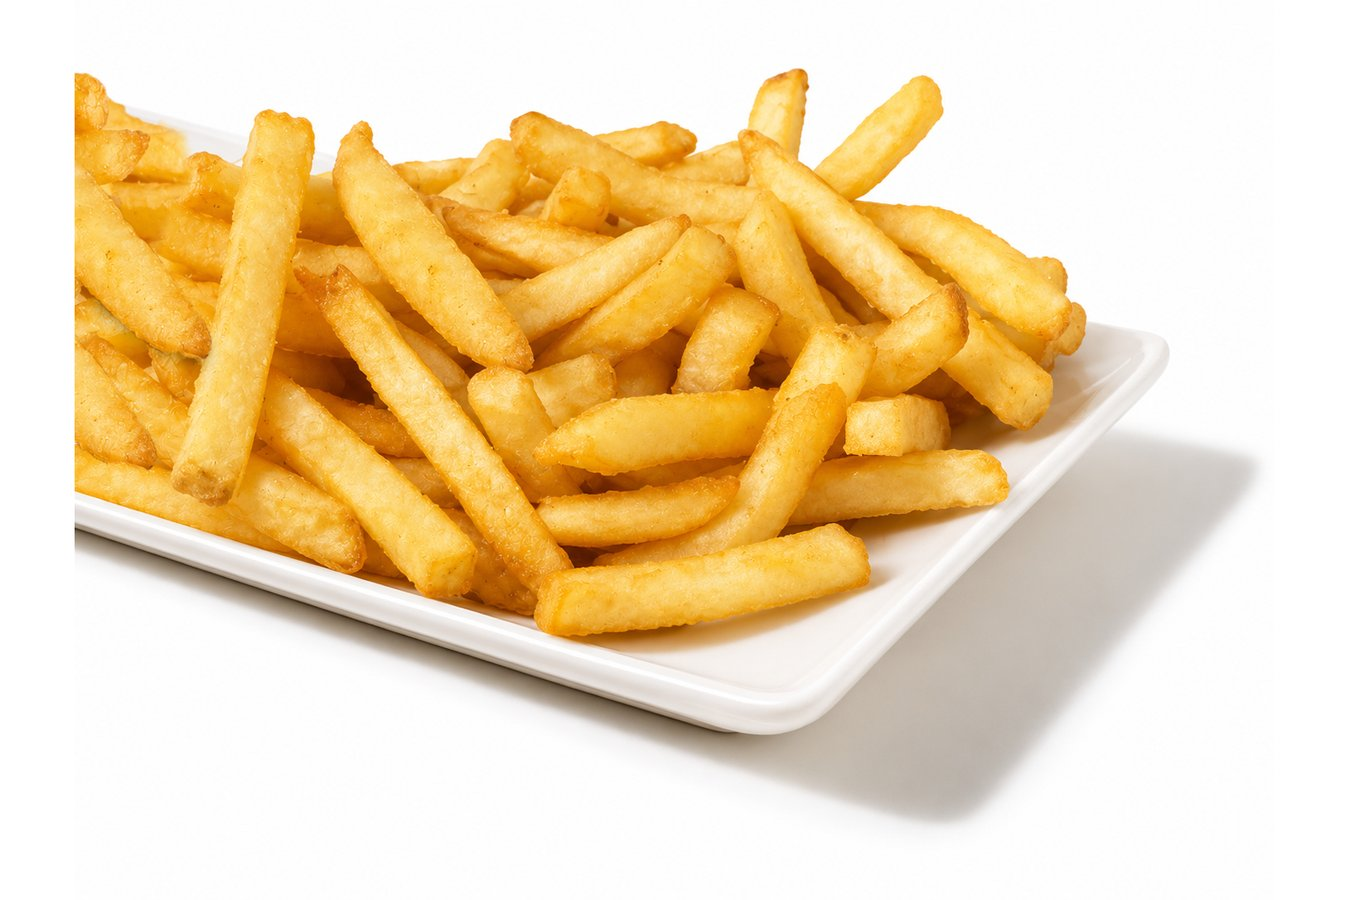
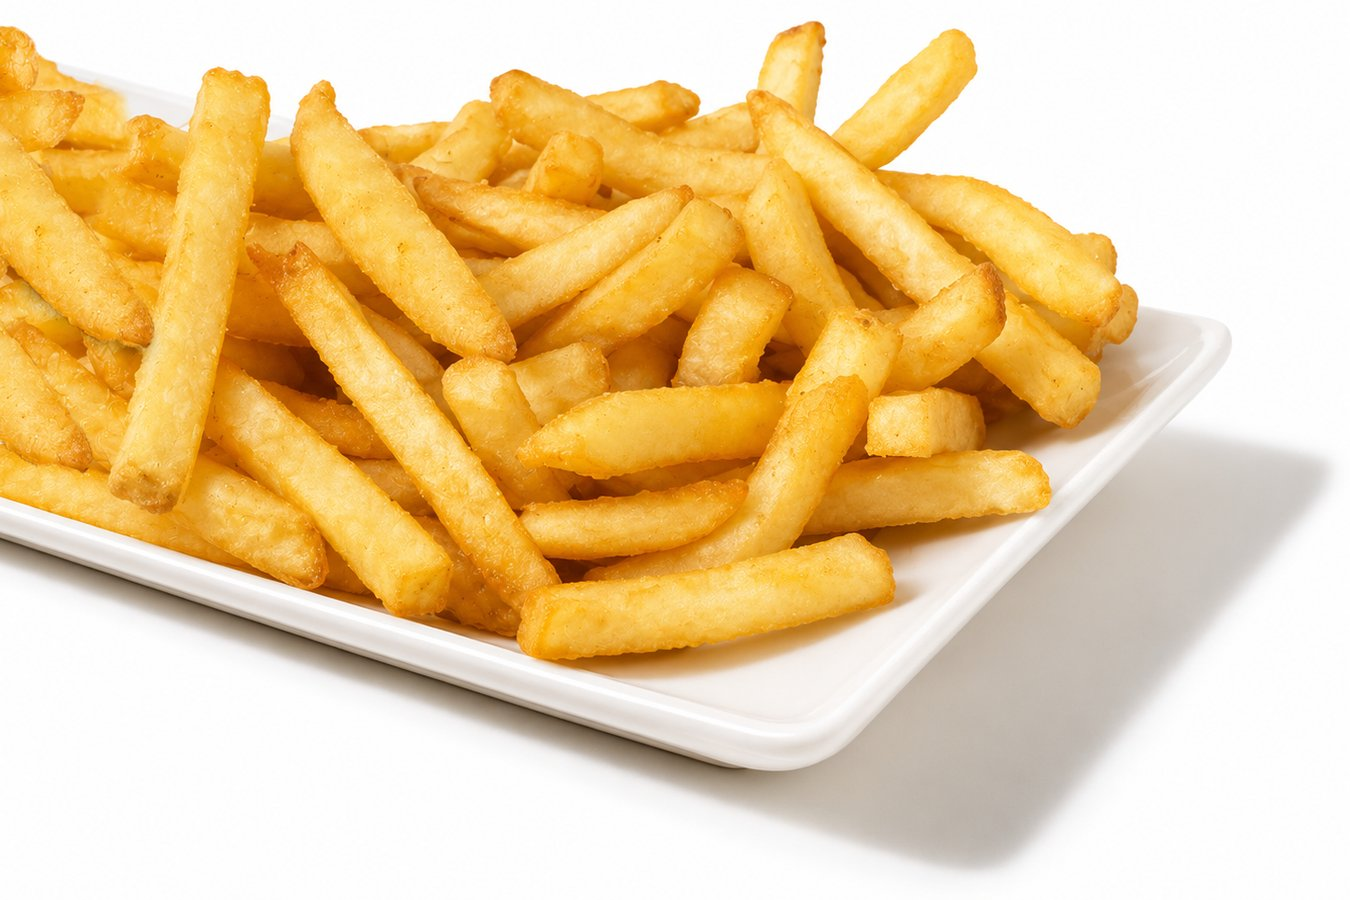
Sides cover: fries reach the left edge like the Wings card
The 4:3 fries photo is now trimmed top and bottom to 3:2 instead of
padded with white at the sides (which left a gap on the left).

Claude-Session: https://claude.ai/code/session_01GwuNKQ4EhJTqGbbawQ6M8A

diff --git a/scripts/side-images.py b/scripts/side-images.py
@@ -44,8 +44,11 @@ for n in ["poutine", "shawarma-poutine"]:
 fries = Image.open(f"{SRC}/fries.png").convert("RGB")
 fries.resize((900, 675), Image.LANCZOS).save(f"{OUT}/fries.jpg", "JPEG", quality=85, optimize=True)
 print("saved fries")
-# Sides cover: 3:2, fries photo with white added at the sides (nothing cropped)
-cover = Image.new("RGB", (1629, 1086), "white")
-cover.paste(fries, ((1629 - fries.width) // 2, 0))
+# Sides cover: 3:2. The fries photo is 4:3, so trim white off the top and
+# bottom (the food isn't touched) rather than adding white at the sides,
+# which left a gap on the left next to the Wings card.
+ch = round(fries.width / 1.5)
+top = (fries.height - ch) // 2
+cover = fries.crop((0, top, fries.width, top + ch))
 cover.resize((1350, 900), Image.LANCZOS).save(f"{OUT}/sides-cover.jpg", "JPEG", quality=85, optimize=True)
 print("saved sides-cover")
